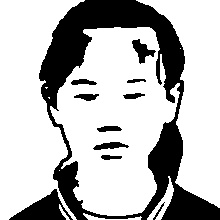
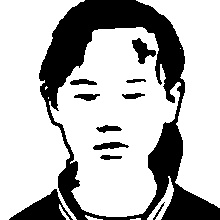
17.10.24 17:25

diff --git a/faceFeature/partitionMethod.py b/faceFeature/partitionMethod.py
@@ -142,7 +142,7 @@ def skinModel(srcImg):
                 ########################################################################
             # skin color detection
             #if Cb >= 80 and Cb <= 127 and Cr >= 141 and Cr <= 173:
-            if Cb >= 77 and Cb <= 127 and Cr >= 137and Cr <= 173:
+            if Cb >= 77 and Cb <= 127 and Cr >= 140and Cr <= 173:
                 skin = 1
                 # print 'Skin detected!'
             if 0 == skin:
@@ -159,7 +159,11 @@ def removeBackground(srcImg):
     img = srcImg.copy()
     sp = img.shape
     mask = np.zeros((img.shape[0]+2,img.shape[1]+2),np.uint8)
+    mask1 = np.zeros((img.shape[0]+2,img.shape[1]+2),np.uint8)
+
     cv2.floodFill(img, mask, (3, 3), (255, 255, 255), (3, 3, 3), (3, 3, 3), 8)
+
+    cv2.floodFill(img,mask1,(sp[1]-3,3),(255, 255, 255), (3, 3, 3), (3, 3, 3), 8)
     #img = myFloodFill(img,mask,(5,5),(3, 3, 3), (3, 3, 3), 8)
     #mask = np.zeros((img.shape[0]+2,img.shape[1]+2),np.uint8)
     #cv2.floodFill(img, mask, (5,img.shape[0]-5), (255, 255, 255), (3, 3, 3), (3, 3, 3), 8)
@@ -492,7 +496,7 @@ def computeEdgesPoint(img):
     else:
         return temp
 #分区结合边缘检测的方法来进行二值化
-def divisionThreshold(imgSKIN,imgFace,imgCanny):
+def divisionThreshold(imgSKIN,imgFace,imgCanny,imgHair):
     useless,theta = meanBrightness(imgSKIN=imgSKIN, imgGRAY=imgFace)
 
     print("平均亮度",theta)
@@ -511,6 +515,7 @@ def divisionThreshold(imgSKIN,imgFace,imgCanny):
     dst = dst[0:new_h*divisionCount,0:new_w*divisionCount]
     newSkin = imgSKIN[0:new_h*divisionCount,0:new_w*divisionCount]
     newFace = imgFace[0:new_h*divisionCount,0:new_w*divisionCount]
+    newHair = imgHair[0:new_h*divisionCount,0:new_w*divisionCount]
     for i in range(divisionCount):
         for j in range(divisionCount):
             imgSegment[i][j] = imgFace[i*new_h:(i+1)*new_h,j*new_w:(j+1)*new_w]
@@ -527,21 +532,41 @@ def divisionThreshold(imgSKIN,imgFace,imgCanny):
     for i in range(divisionCount):
         for j in range(divisionCount):
             dst[i*new_h:(i+1)*new_h,j*new_w:(j+1)*new_w]=imgSegment[i][j]
+
+    #对头发进行一个简单处理
+    for i in range(newSkin.shape[0]):
+        for j in range(newSkin.shape[1]):
+            if newSkin[i, j] > 100:
+                if newFace[i, j] < 20 and i < newSkin.shape[0] / 2:
+                    dst[i, j] = 0
     ret,dst = cv2.threshold(dst,100,255,cv2.THRESH_BINARY)
     return dst,newSkin,newFace
 
 #头发处理
-def hairProcess(imgSkinTemp,imgGrayTemp,resultTemp):
-    sp = imgGrayTemp.shape
-    print(imgSkinTemp.shape,imgGrayTemp.shape,resultTemp.shape)
-    ret,imgGrayTempBin =  cv2.threshold(imgGrayTemp,254,255,cv2.THRESH_BINARY_INV)
-
-    for i in range(sp[0]):
-        for j in range(sp[1]):
-            if imgGrayTempBin[i,j] > 0 and imgSkinTemp[i,j] == 0:
-                resultTemp[i,j]=0
-    return resultTemp
-
+def hairProcess(imageSrc):
+    img = imageSrc.copy()
+    sp = img.shape
+    imgRGB = img.copy()
+    img = cv2.cvtColor(img,cv2.COLOR_BGR2GRAY)
+    x = 0
+    y =0
+    while img[x,y] >60 :
+        y+=2
+        x+=2
+    mask = np.zeros((imgRGB.shape[0] + 2, img.shape[1] + 2), np.uint8)
+    cv2.floodFill(imgRGB,mask,(x+2,y+3),(0,0,0),(3,3,3),(3,3,3),8)
+    print("1",x,y)
+    x1=0
+    y1=img.shape[1]-1
+    while img[x1,y1] > 60:
+        x1+=2;
+        y1-=2;
+    mask = np.zeros((imgRGB.shape[0] + 2, img.shape[1] + 2), np.uint8)
+    cv2.floodFill(imgRGB, mask, (y1 - 2,x1 + 2),(0, 0, 0),(3,3,3),(3,3,3), 8)
+    print("2",x1,y1)
+    imghair = cv2.cvtColor(imgRGB,cv2.COLOR_BGR2GRAY);
+    cv2.imshow("hairdetect",imgRGB)
+    return imghair
 
 
 #总的图片处理过程
@@ -550,8 +575,6 @@ def processImg(img):
     img = cv2.resize(img,(int(img.shape[1]/2) ,int(img.shape[0]/2)),interpolation=cv2.INTER_CUBIC)
     cv2.imshow("img",img)
     #获取到前景图，但是这里因为外层头发比较稀疏，所以可能会被误识别成肤色，所以用形态学操作把这层头发给去掉
-    imgFront = removeBackground(img)
-
     #眼睛和人脸检测
     faces,eyes = detectEyes(img)
     if len(faces)<1:
@@ -564,29 +587,27 @@ def processImg(img):
     #获取到的人物头像前景图
     imgFace = tailorImg(img,faces)
     imgFace = removeBackground(imgFace)
+
     #获取imgFace的肤色图
     imgFace_Skin = skinModel(imgFace)
     ####################################################
     #对肤色图进行修剪
     skinTemp = cv2.erode(imgFace_Skin, kernel)
     skinTemp = cv2.dilate(skinTemp, kernel)
+    skinTemp = cv2.dilate(skinTemp, kernel)
     #harlan
     imgFace_Skin = RemoveSmallRegion(skinTemp, 2000, 1, 1)
     imgFace_Skin = RemoveSelectRegion(imgFace_Skin, 2000,200, 0, 1)
     imgFace_Skin = RemoveSelectRegion(imgFace_Skin, 250,1, 0, 1)
+    imgHair = hairProcess(imgFace)
     cv2.imshow("skinTemp", imgFace_Skin)
 
     imgFace_Gray = cv2.cvtColor(imgFace,cv2.COLOR_BGR2GRAY)
     #harlan=======================================
-
-    #获取到作阈值化的阈值
-    #theta = meanBrightness(imgSKIN=imgFace_Skin,imgGRAY=imgFace_Gray)
-    #进行阈值化
     cv2.imshow("imgFace_gray",imgFace_Gray)
     canny = cv2.Canny(imgFace_Gray,40,120)
     cv2.imshow("canny",canny)
-    imgFace_thresh,newSkin,newFace = divisionThreshold(imgSKIN=imgFace_Skin,imgFace=imgFace_Gray,imgCanny=canny)
-    #ret,imgFace_thresh = cv2.threshold(imgFace_Gray,0.7*int(theta),255,cv2.THRESH_BINARY)
+    imgFace_thresh,newSkin,newFace = divisionThreshold(imgSKIN=imgFace_Skin,imgFace=imgFace_Gray,imgCanny=canny,imgHair= imgHair)
 
     cv2.imshow("face_threshold",imgFace_thresh)
     #轮廓补充
@@ -595,7 +616,7 @@ def processImg(img):
 #整套图片处理
 def createResult():
     i = 1
-    while i <= 39:
+    while i <= 44:
         print(i)
         img = cv2.imread("img/" + str(i) + ".jpg", 1)
         img = cv2.medianBlur(img, 3)
@@ -608,7 +629,7 @@ def createResult():
         i = i + 1
 #单个图片处理
 def unitTest():
-    img = cv2.imread("img/38.jpg",1)
+    img = cv2.imread("img/42.jpg",1)
     img = cv2.medianBlur(img,3)
     dst = processImg(img)
     dst = cv2.medianBlur(dst,3)
@@ -618,7 +639,7 @@ def unitTest():
     cv2.imshow("result",dst)
     print(dst.shape)
 if __name__ == '__main__':
-    gamma = 0.550
+    gamma = 0.560
     lamda = 0.6600
     bata = 0.3400
     createResult()

diff --git a/faceFeature/pythonForTest.py b/faceFeature/pythonForTest.py
@@ -4,9 +4,21 @@ import numpy as np
 from matplotlib import pyplot as plt
 
 if __name__ == '__main__':
-    img = cv2.imread("img/1.jpg",0)
-    img = cv2.medianBlur(img,3)
-    edges = cv2.Canny(img,40,90)
-    cv2.imshow("img",img)
-    cv2.imshow("edges",edges)
+    import numpy as np
+    import cv2
+    from matplotlib import pyplot as plt
+
+    img = cv2.imread('img/gpo6i.jpg',1)
+    img = cv2.cvtColor(img, cv2.COLOR_BGR2RGB)
+    print(img.shape,img.shape[0],img.shape[1])
+    x=0
+    y=img.shape[1]-1
+    sp= img.shape
+    while x<img.shape[0] and y>=0:
+        img[x,y] =(0,0,0)
+        x+=1
+        y-=1
+    img[sp[1]-3,3] = (0,255,0)
+    cv2.imshow("dfd",img)
+
     cv2.waitKey(0)
